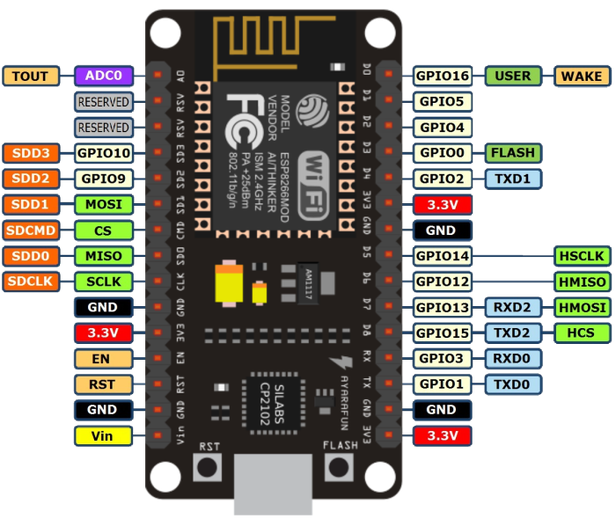
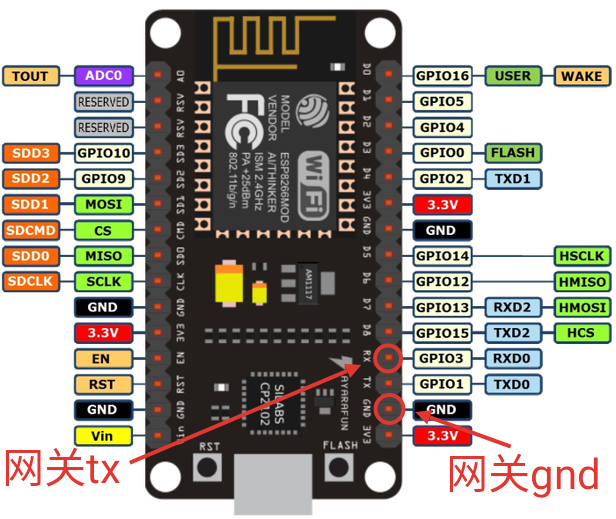
更新文档

diff --git a/README.md b/README.md
@@ -1,7 +1,7 @@
 # LOCK2MQTT
 米家智能门锁接入homeassistant
 
-![](https://i.loli.net/2019/11/08/9uR5Eso1tadFBIh.jpg)
+![](https://raw.githubusercontent.com/killadm/LOCK2MQTT/master/DOC/images/ha.jpg)
 
 
 
@@ -9,61 +9,61 @@
 
 - 门锁状态
 
-  > 开门
-  > 关门
-  > 超时未关
-  > 敲门
-  > 撬门
-  > 门卡住
+  - 开门
+  - 关门
+  - 超时未关
+  - 敲门
+  - 撬门
+  - 门卡住
 
 - 锁舌状态
 
-  > 所有锁舌收回
-  > 斜舌弹出
-  > 方舌/斜舌弹出
-  > 呆舌/斜舌弹出
-  > 所有锁舌弹出
+  - 所有锁舌收回
+  - 斜舌弹出
+  - 方舌/斜舌弹出
+  - 呆舌/斜舌弹出
+  - 所有锁舌弹出
 
 - 开锁事件
 
   - 方法
 
-    > 蓝牙
-    > 密码
-    > 指纹
-    > 应急钥匙
-    > 转盘方式
-    > NFC
-    > 一次性密码
-    > 双重验证
-    > 人工
-    > 自动
+    - 蓝牙
+    - 密码
+    - 指纹
+    - 应急钥匙
+    - 转盘方式
+    - NFC
+    - 一次性密码
+    - 双重验证
+    - 人工
+    - 自动
 
   - 动作
 
-    > 室外开门
-    > 上提把手锁门
-    > 反锁
-    > 解除反锁
-    > 室内开门
-    > 门内上锁
-    > 开启童锁
-    > 关闭童锁
+    - 室外开门
+    - 上提把手锁门
+    - 反锁
+    - 解除反锁
+    - 室内开门
+    - 门内上锁
+    - 开启童锁
+    - 关闭童锁
 
   - 操作者
 
 - 报警事件
 
-  > 密码多次验证失败
-  > 指纹多次验证失败
-  > 密码输入超时
-  > 撬锁
-  > 重置按键按下
-  > 有人撬锁或钥匙未拔
-  > 钥匙孔异物
-  > 钥匙未取出
-  > NFC设备多次验证失败
-  > 超时未按要求上锁
+  - 密码多次验证失败
+  - 指纹多次验证失败
+  - 密码输入超时
+  - 撬锁
+  - 重置按键按下
+  - 有人撬锁或钥匙未拔
+  - 钥匙孔异物
+  - 钥匙未取出
+  - NFC设备多次验证失败
+  - 超时未按要求上锁
 
 - 电量事件
 
@@ -82,14 +82,14 @@
 
 - **米家智能门锁** x 1
 
-  ![图片]()
+  ![图片](https://raw.githubusercontent.com/killadm/LOCK2MQTT/master/DOC/images/%E7%B1%B3%E5%AE%B6%E6%99%BA%E8%83%BD%E9%94%81.jpg)
 
 - - **小白万能遥控器 声控版** x 1
 
-  ![图片]()
+  ![图片](https://raw.githubusercontent.com/killadm/LOCK2MQTT/master/DOC/images/%E5%B0%8F%E7%99%BD%E4%B8%87%E8%83%BD%E9%81%A5%E6%8E%A7%E5%99%A8%E5%A3%B0%E6%8E%A7%E7%89%88.jpg)
 
 - **ESP8266** x 1
-![图片]()
+![图片](https://raw.githubusercontent.com/killadm/LOCK2MQTT/master/DOC/images/esp8266.png)
 
 ## 烧录
 
@@ -99,7 +99,8 @@
 
 因网关串口输出非常频繁，为了提高效率，默认使用ESP8266的硬串口。
 调试完成后，可以通过网关PCB上的VBUS触点给ESP8266供电。
-![图片]()
+
+![图片](https://raw.githubusercontent.com/killadm/LOCK2MQTT/master/DOC/images/%E6%8E%A5%E7%BA%BF%E5%9B%BE.jpg)
 
 ## 配网
 
